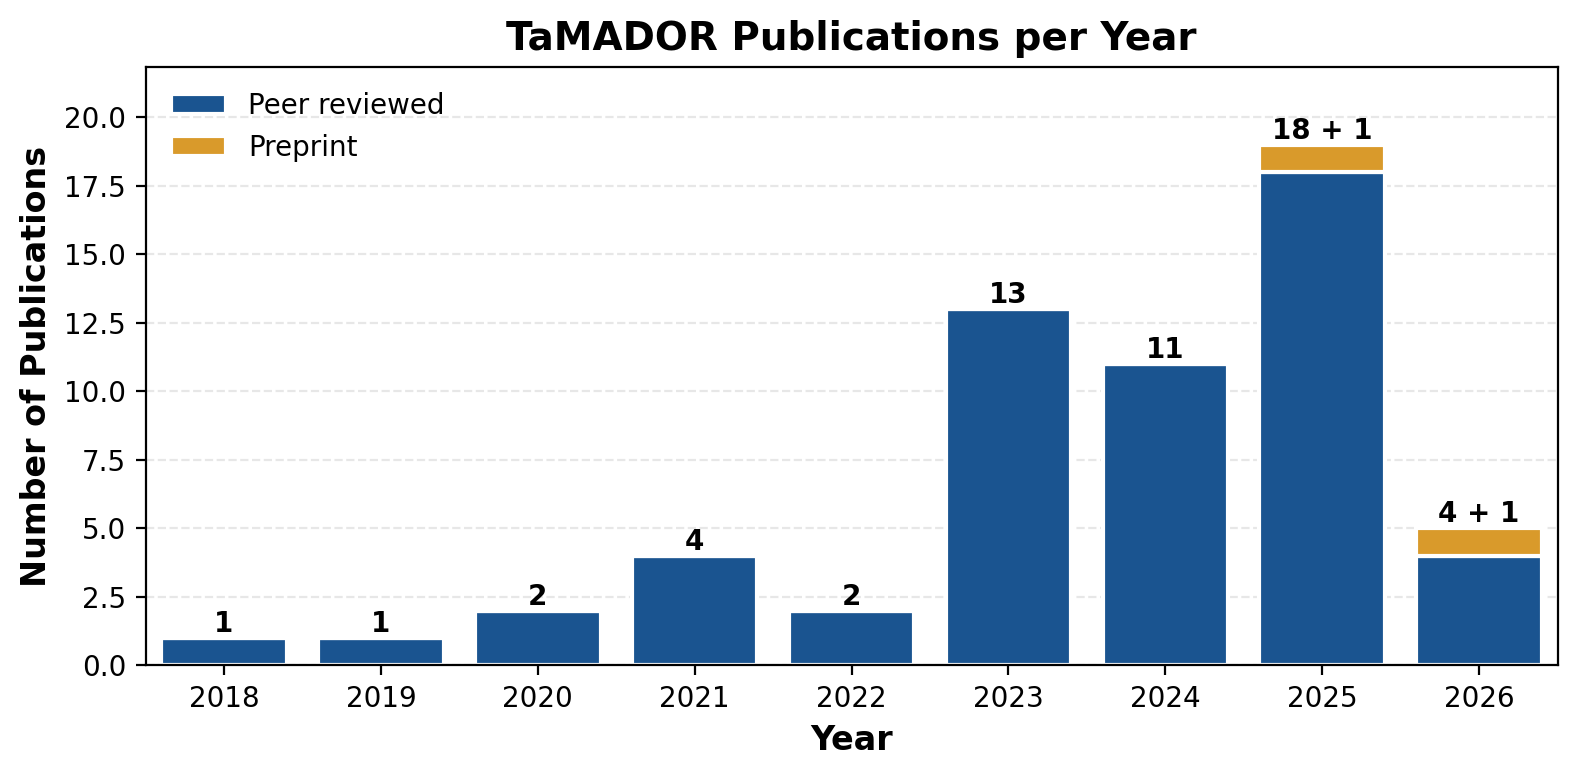
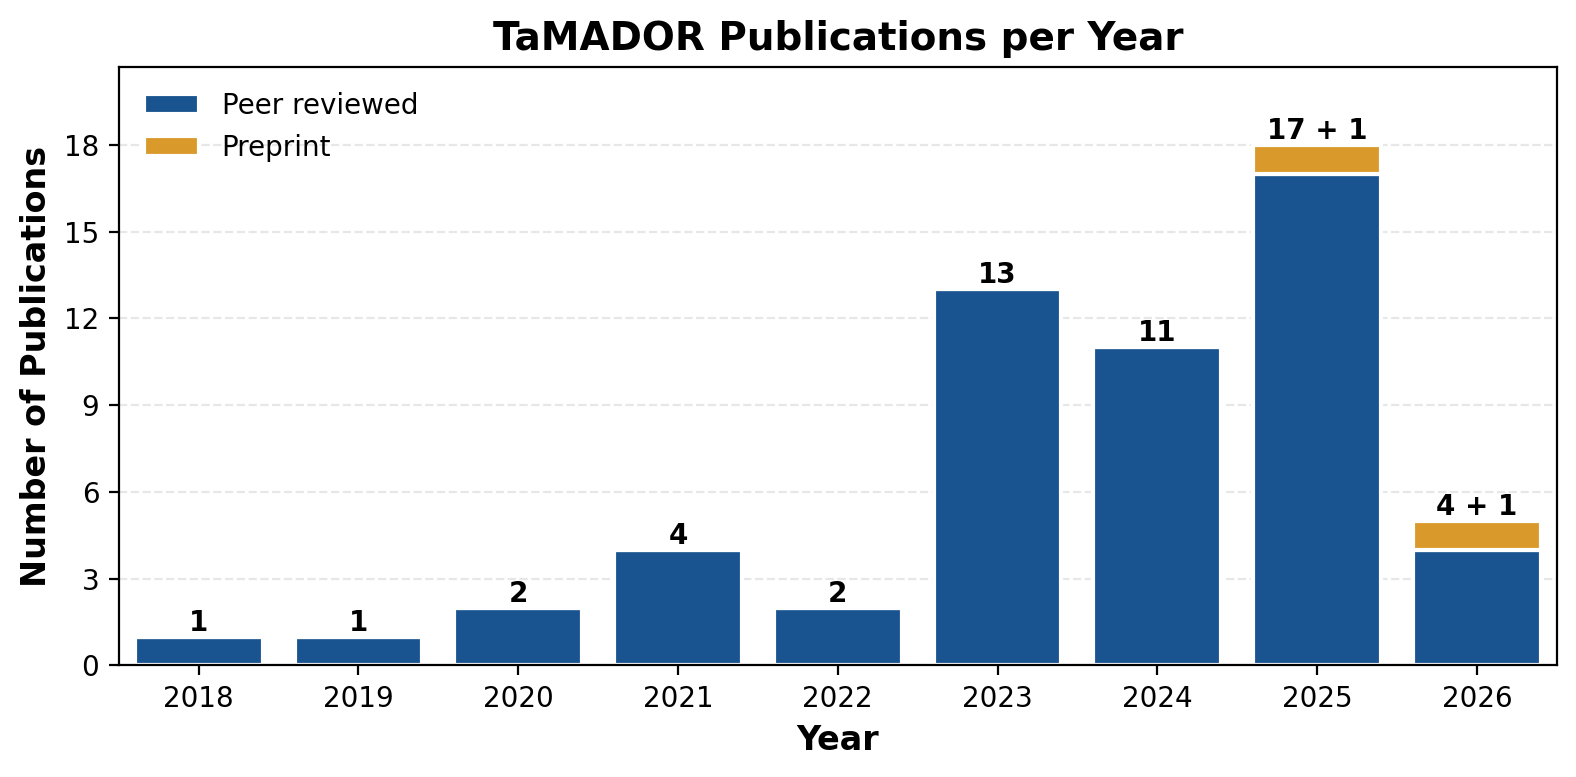
Pruned the manual PMID list and kept integer axis ticks
Removed 40093566, 'MRM-based LC-MS method for accurate C-peptide quantitation'.
It credits only U01 DK133106, the separate Standardization of C-Peptide and
HbA1C Measurements Program led by Kuanysh Kabytaev at Missouri, and none of its
six authors is a consortium member. It reached the page only through the manual
list.

Removed 40802520 and 38109936, which the grant search now finds on its own once
it began matching bare grant numbers. Both remain on the page.

Kept 40739343, 'Diffusing protein binders to intrinsically disordered
proteins', as consortium work through Hoofnagle, and 41959136, whose TaMADOR
grant PubMed does not index. Each remaining entry now carries a note saying why
the search cannot reach it.

Counts go from 58 papers to 57: 55 peer reviewed and 2 preprints. That drop put
the y-axis in a range where matplotlib chose 2.5 steps, so the chart briefly
showed fractional counts; pinned the axis to integer ticks.

diff --git a/scripts/fetch_publications.py b/scripts/fetch_publications.py
@@ -23,6 +23,7 @@ from pathlib import Path
 import matplotlib
 matplotlib.use('Agg')  # Use non-interactive backend for server/CI
 import matplotlib.pyplot as plt
+from matplotlib.ticker import MaxNLocator
 
 # Configuration
 GRANT_NUMBERS = [
@@ -35,11 +36,15 @@ GRANT_NUMBERS = [
 # Additional PMIDs to include. PubMed indexes the grants a record actually
 # declares, so a paper that credits a TaMADOR grant in its own text is still
 # unreachable by grant search when that grant is missing from the PubMed record.
+#
+# Keep a note on each entry saying why the grant search cannot reach it. Two
+# earlier entries, 40802520 and 38109936, were dropped once the search began
+# matching bare grant numbers, which finds them on its own.
 ADDITIONAL_PMIDS = [
-    '40802520',
-    '40093566',
+    # 'Diffusing protein binders to intrinsically disordered proteins'
+    # (Nature 2025). Consortium work through Hoofnagle, one of 32 authors,
+    # though the paper credits P30 DK017047 rather than a TaMADOR grant.
     '40739343',
-    '38109936',
     # 'Serum proteomics reveals distinct phenotypic signatures to IL-6 blockade
     # between two immunotherapies' (bioRxiv 2026). The preprint credits
     # U01 DK137097, but PubMed indexes only R35 GM150919 for it.
@@ -474,6 +479,10 @@ def generate_publications_plot(publications):
     if len(years) > 0:
         ax.set_xlim(min(years) - 0.5, max(years) + 0.5)
         ax.set_xticks(years)
+
+    # Publication counts are whole numbers, so keep matplotlib from choosing
+    # fractional ticks (it picks 2.5 steps at some axis ranges)
+    ax.yaxis.set_major_locator(MaxNLocator(integer=True))
 
     # Add gridlines for better readability
     ax.yaxis.grid(True, linestyle='--', alpha=0.3)

diff --git a/publications.md b/publications.md
@@ -18,7 +18,7 @@ Publications from the TaMADOR consortium supported by:
 
 and 2 preprints awaiting peer review*
 
-*Last updated: August 04, 2026 — 56 peer-reviewed publications and 2 preprints awaiting peer review*
+*Last updated: August 04, 2026 — 55 peer-reviewed publications and 2 preprints awaiting peer review*
 
 ---
 
@@ -231,16 +231,6 @@ and 2 preprints awaiting peer review*
   <div class="publication-links">
     <a href="https://pubmed.ncbi.nlm.nih.gov/40093568/"><span class="visually-hidden">A multiplex assay of leptin, resistin, and adiponectin by immunoaffinity enrichment and targeted mass spectrometry: </span>PubMed</a>
     <a href="https://doi.org/10.1016/j.jmsacl.2025.01.003"><span class="visually-hidden">A multiplex assay of leptin, resistin, and adiponectin by immunoaffinity enrichment and targeted mass spectrometry: </span>DOI</a>
-  </div>
-</li>
-
-<li class="publication-item">
-  <div class="publication-title">MRM-based LC-MS method for accurate C-peptide quantitation</div>
-  <div class="publication-authors">Grothoff W, Khodakivskyi I, Shin A, Little R, Connolly S, Kabytaev K</div>
-  <div class="publication-journal">Journal of mass spectrometry and advances in the clinical lab, 2025</div>
-  <div class="publication-links">
-    <a href="https://pubmed.ncbi.nlm.nih.gov/40093566/"><span class="visually-hidden">MRM-based LC-MS method for accurate C-peptide quantitation: </span>PubMed</a>
-    <a href="https://doi.org/10.1016/j.jmsacl.2025.02.001"><span class="visually-hidden">MRM-based LC-MS method for accurate C-peptide quantitation: </span>DOI</a>
   </div>
 </li>
 

diff --git a/scripts/USAGE.md b/scripts/USAGE.md
@@ -18,8 +18,8 @@ deactivate
 The `fetch_publications.py` script:
 
 1. **Queries PubMed** for all papers crediting TaMADOR grants
-2. **Fetches 59 distinct papers** (as of Aug 2026) across 9 years (2018-2026):
-   57 peer reviewed plus 2 preprints not yet peer reviewed
+2. **Fetches 57 distinct papers** (as of Aug 2026) across 9 years (2018-2026):
+   55 peer reviewed plus 2 preprints not yet peer reviewed
 3. **Collapses preprint duplicates**, keeping the peer-reviewed version of any
    paper that has one. Pairs PubMed does not link are listed in
    `SUPERSEDED_PREPRINTS`
